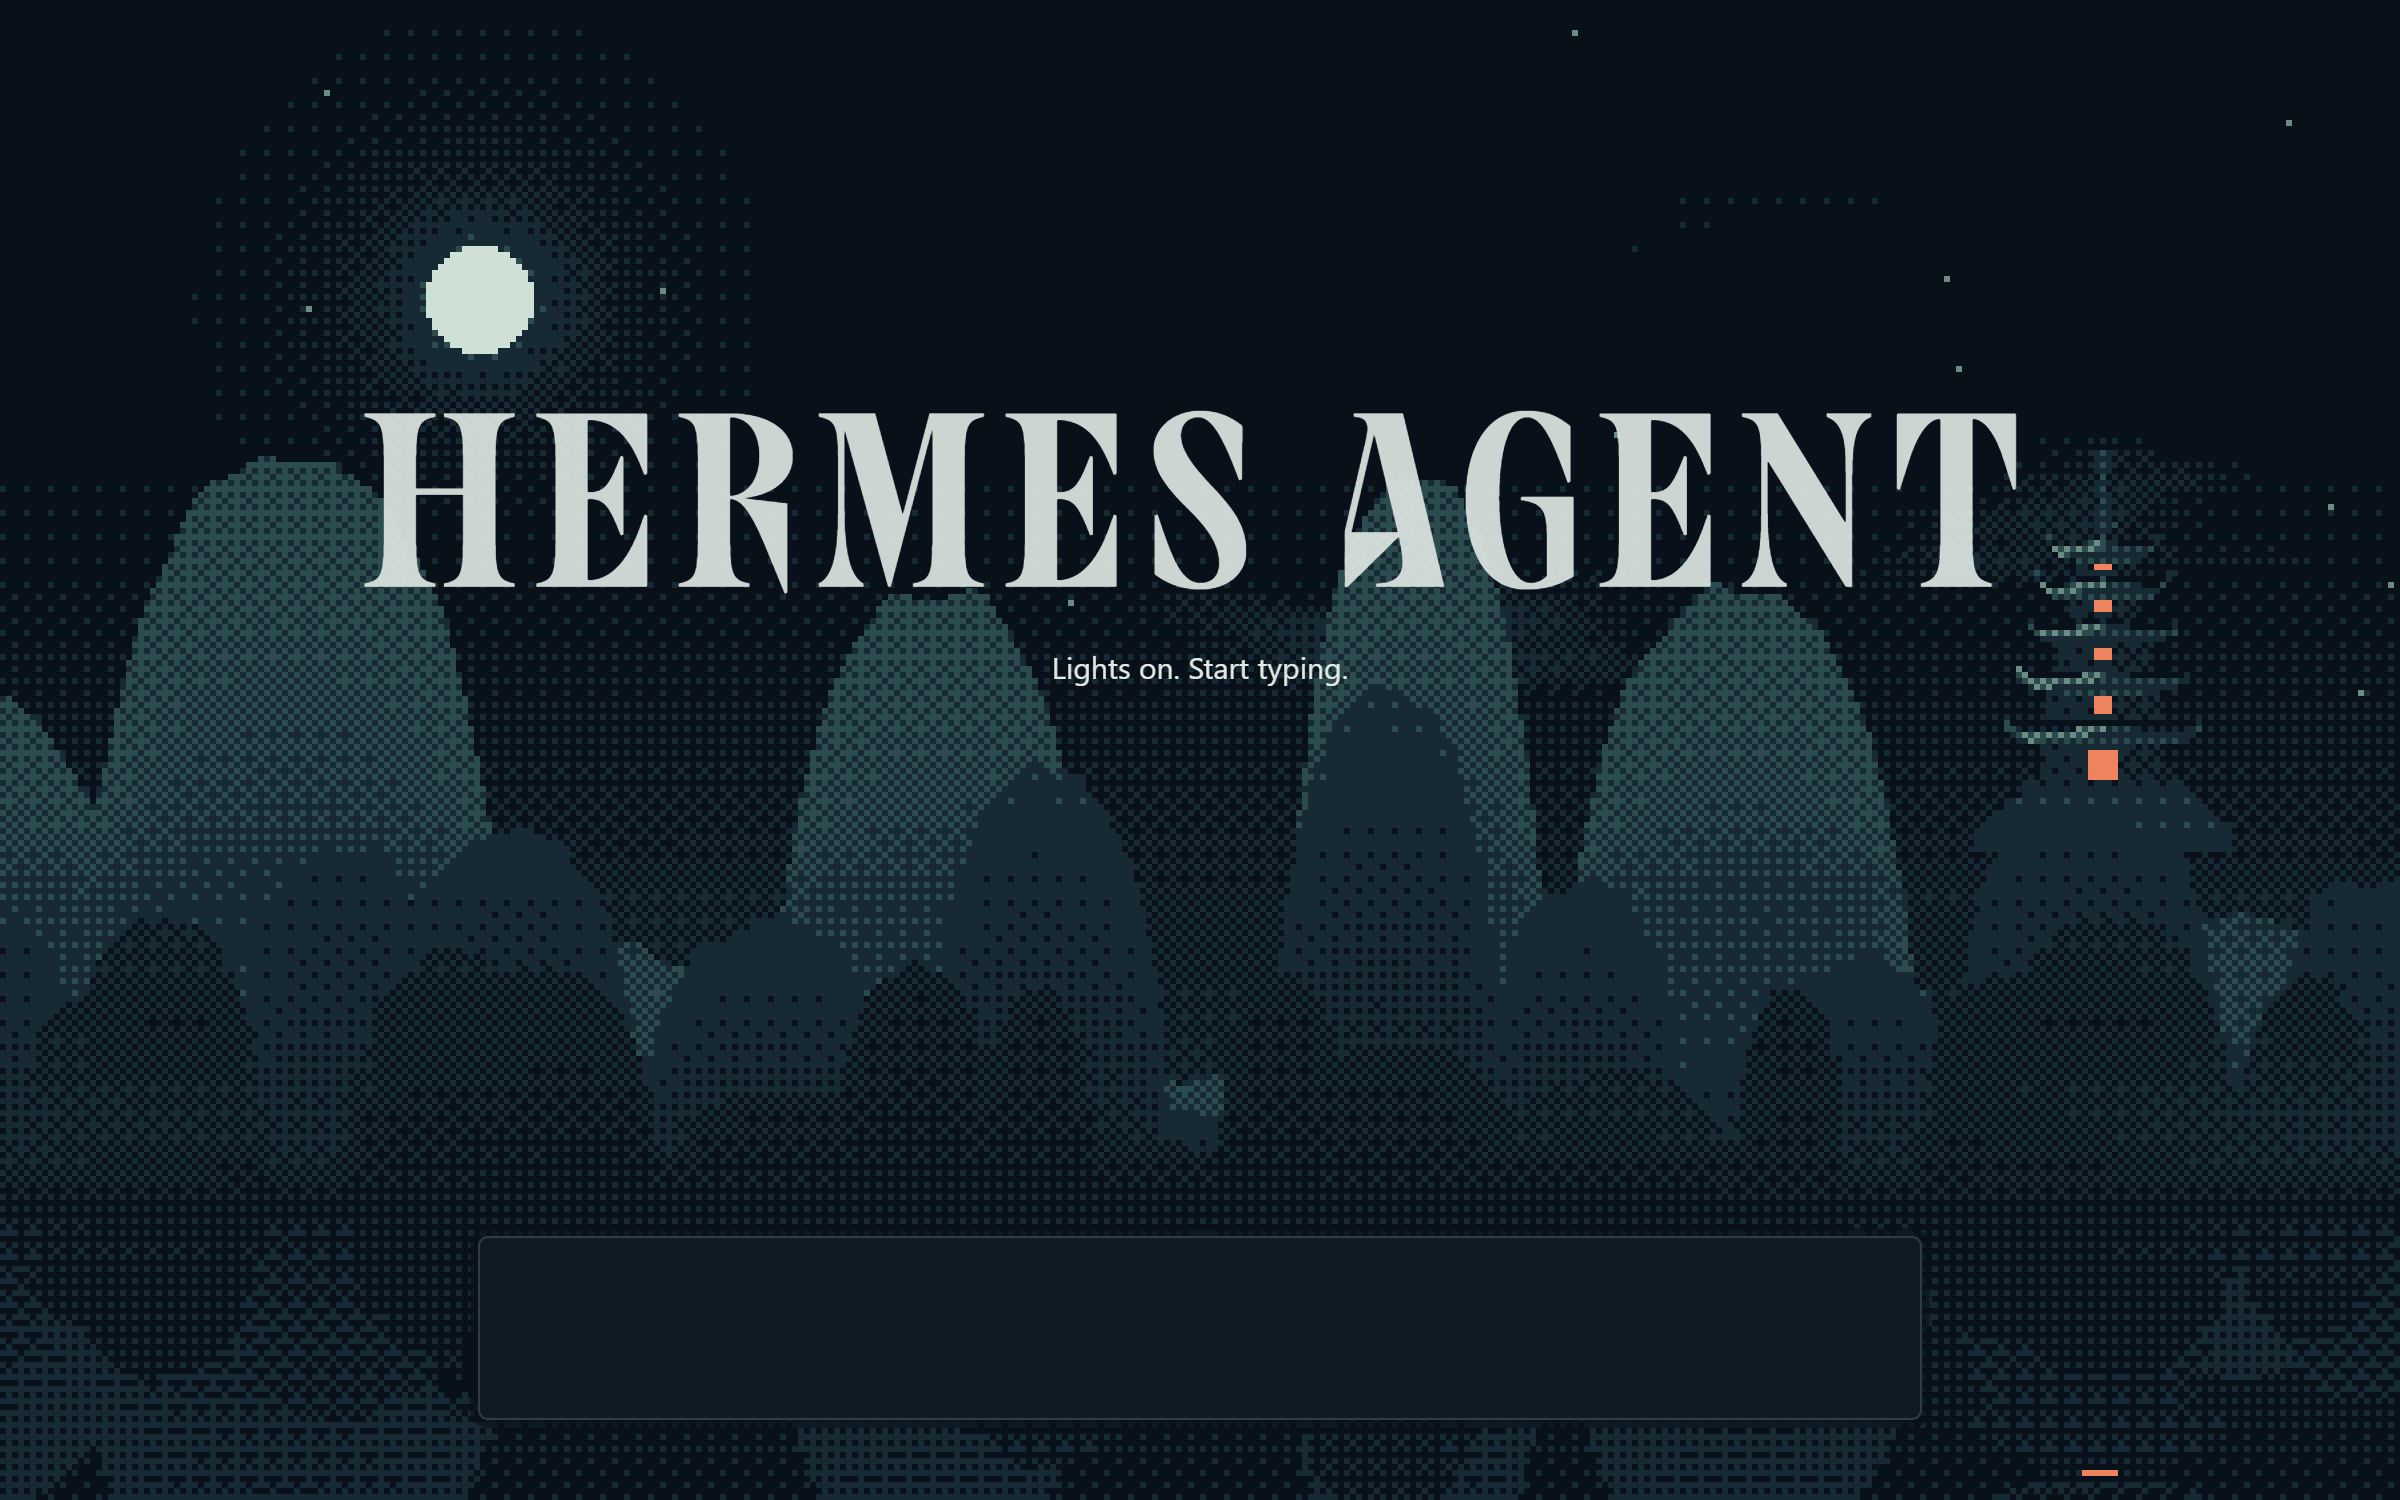
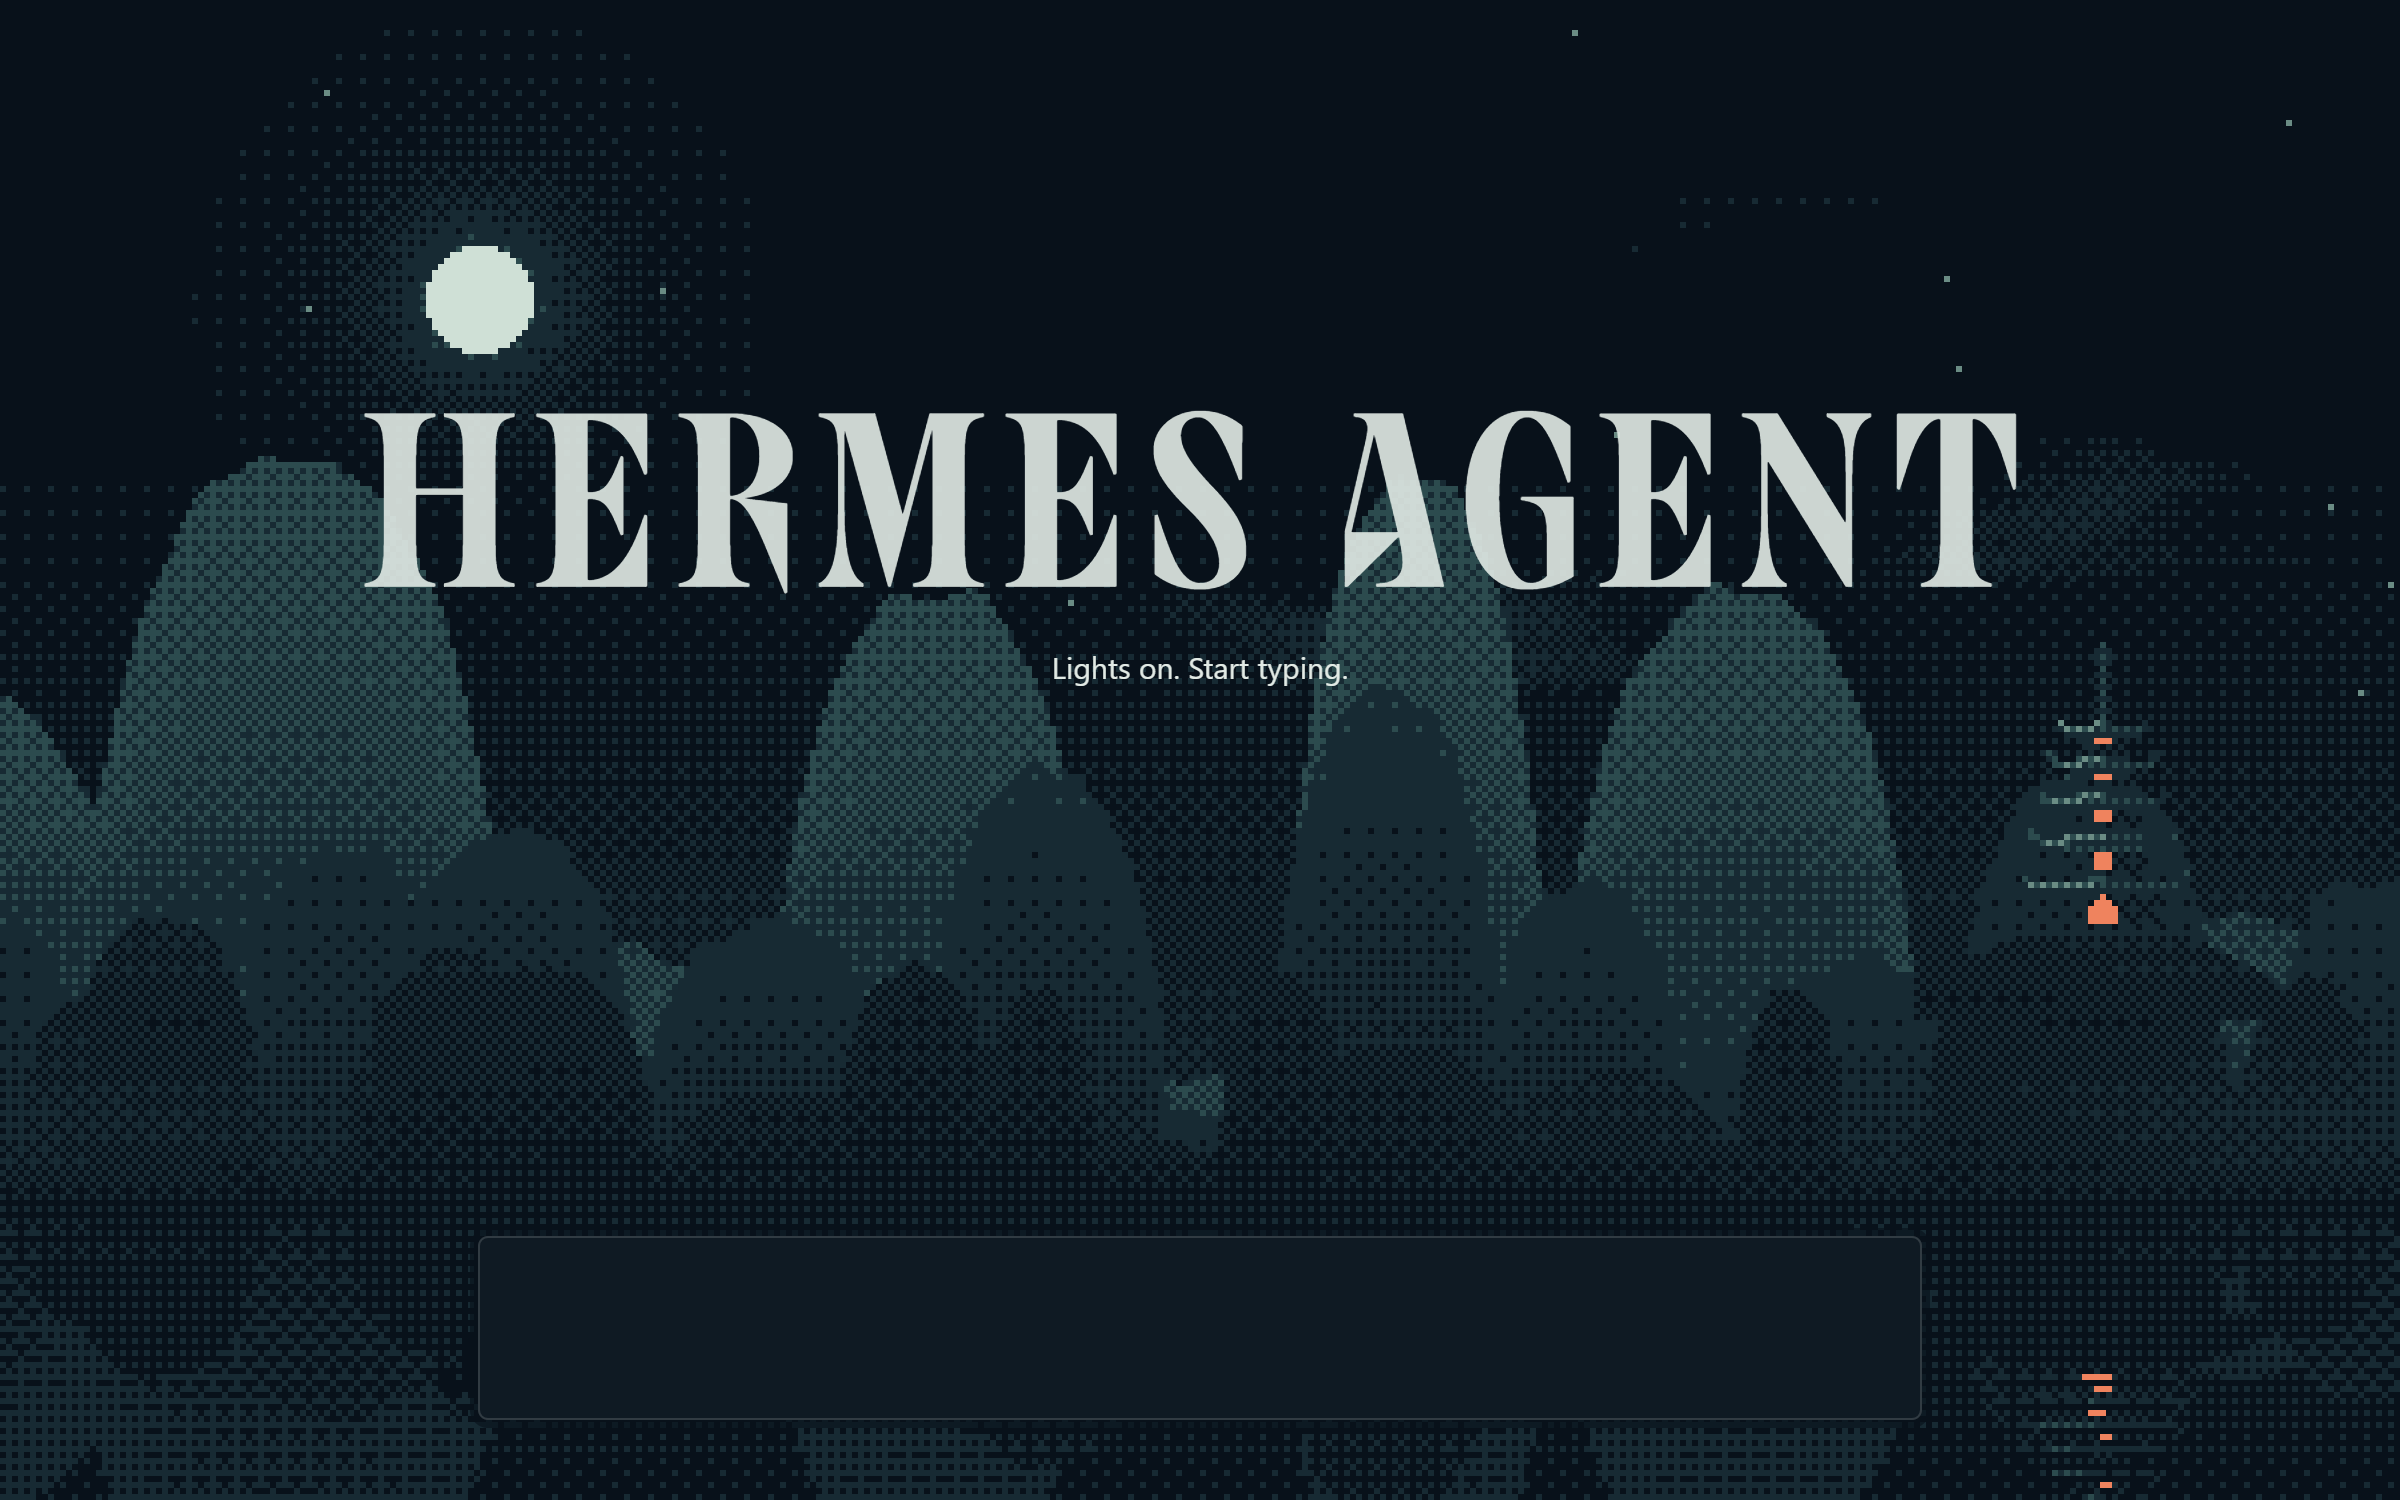
Stand the pagoda on the near range so it never floats
On the pale middle range its crest faded to paper behind text (and under mist) while the dark pagoda stayed, so it looked like it was flying. It now stands on the highest crest of the near range, on a rock shaded like that range, in front of the mist. test/pagoda_crops.py renders it at several moments, light and dark, empty chat and behind text.

Changed region(s): [[0.8125, 0.3373, 0.9688, 0.6747], [0.8438, 0.92, 0.9062, 1.0], [0.9062, 0.8587, 0.9375, 0.92]]

diff --git a/desktop/plugin.js b/desktop/plugin.js
@@ -426,13 +426,13 @@ float pagoda(vec2 q, out float part, out float rim) {
   part = 0.0;
   rim = 0.0;
   float ax0 = abs(q.x);
-  if (ax0 > 4.6 || q.y < -2.5 || q.y > 13.5) {
+  if (ax0 > 8.0 || q.y < -4.0 || q.y > 13.5) {
     return 0.0;
   }
   // a stone plinth, and below it the rock it is built on, widening into the hill
   if (q.y < 0.0) {
     part = q.y < -0.45 ? 5.0 : 4.0;
-    return ax0 < (q.y < -0.45 ? 2.9 + (-q.y - 0.45) * 1.4 : 2.75) ? 1.0 : 0.0;
+    return ax0 < (q.y < -0.45 ? 3.0 + pow(-q.y - 0.45, 0.7) * 2.6 : 2.75) ? 1.0 : 0.0;
   }
   float y = 0.0;
   for (int i = 0; i < 5; i++) {
@@ -527,37 +527,6 @@ float scene(vec2 uv, float t, float rain, out float ground, out float acc) {
     ground = 1.0;
   }
 
-  // the pagoda stands on the middle range, on the right, in that range's own (parallax) coordinates
-  // on the highest crest of that range right of centre. The search range is in
-  // scene units (heights), not a share of the width, so resizing the window or
-  // opening a side pane never moves it to another peak.
-  float px = 0.45;
-  float crest = 0.0;
-  for (int i = 0; i < 24; i++) {
-    float cx = 0.25 + 0.45 * float(i) / 23.0;
-    float k = karst(cx * 2.8 + 23.0, 23.0, 0.5);
-    if (k > crest) {
-      crest = k;
-      px = cx;
-    }
-  }
-  float base = HORIZON + 0.36 * crest - 0.012;
-  float part;
-  float rim;
-  if (pagoda(vec2(x1 - px, p.y - base) / 0.019, part, rim) > 0.5) {
-    ground = 1.0;
-    float shade = x1 > px ? 1.0 : 0.0; // the side away from the sun and moon (right)
-    if (uNight < 0.5) {
-      // cinnabar walls (dithered darker on the shaded side), dark tiled roofs
-      tone = part == 1.0 ? (rim > 0.5 ? 0.7 : 1.0) : part == 2.0 ? 1.0 : part == 3.0 ? 0.85 : part == 4.0 ? 0.75 : part == 5.0 ? 0.55 : 0.85;
-      acc = part == 0.0 ? (shade > 0.5 ? 0.8 : 1.0) : 0.0;
-    } else {
-      // a dim shape against the night sky, moonlit roof edges and lamps in the windows
-      tone = part == 1.0 ? (rim > 0.5 && shade < 0.5 ? 0.62 : 0.32) : part == 3.0 ? 0.32 : part == 4.0 ? 0.22 : part == 5.0 ? 0.26 : (shade > 0.5 ? 0.16 : 0.22);
-      acc = part == 2.0 ? 1.0 : 0.0;
-    }
-  }
-
   float x2 = layerX(p, 1.0);
   float top2 = HORIZON + 0.2 * karst(x2 * 3.6 + 37.0, 37.0, 0.42);
   if (p.y < top2) {
@@ -567,10 +536,47 @@ float scene(vec2 uv, float t, float rain, out float ground, out float acc) {
     ground = 1.0;
   }
 
+  // the pagoda stands on the near range, on its highest crest right of centre, so it
+  // is as dark as the rock under it and never reads as floating when the scene fades.
+  // The search range is in scene units (heights), not a share of the width, so
+  // resizing the window or opening a side pane never moves it to another peak.
+  float px = 0.45;
+  float crest = 0.0;
+  for (int i = 0; i < 24; i++) {
+    float cx = 0.25 + 0.45 * float(i) / 23.0;
+    float k = karst(cx * 3.6 + 37.0, 37.0, 0.42);
+    if (k > crest) {
+      crest = k;
+      px = cx;
+    }
+  }
+  float base = HORIZON + 0.2 * crest - 0.004;
+  float part;
+  float rim;
+  float solid = 0.0; // the building stands in front of the mist that lies on the slopes
+  if (pagoda(vec2(x2 - px, p.y - base) / 0.016, part, rim) > 0.5) {
+    ground = 1.0;
+    solid = part == 5.0 ? 0.0 : 1.0;
+    float shade = x2 > px ? 1.0 : 0.0; // the side away from the sun and moon (right)
+    if (part == 5.0) {
+      // the rock it is built on, shaded like the range itself
+      tone = mix(mix(0.85, 0.12, uNight), mix(0.42, 0.06, uNight), smoothstep(base, HORIZON, p.y));
+      acc = 0.0;
+    } else if (uNight < 0.5) {
+      // cinnabar walls (dithered darker on the shaded side), dark tiled roofs
+      tone = part == 1.0 ? (rim > 0.5 ? 0.7 : 1.0) : part == 2.0 ? 1.0 : part == 3.0 ? 0.85 : part == 4.0 ? 0.6 : 0.85;
+      acc = part == 0.0 ? (shade > 0.5 ? 0.8 : 1.0) : 0.0;
+    } else {
+      // a dim shape against the night sky, moonlit roof edges and lamps in the windows
+      tone = part == 1.0 ? (rim > 0.5 && shade < 0.5 ? 0.62 : 0.32) : part == 3.0 ? 0.32 : part == 4.0 ? 0.24 : (shade > 0.5 ? 0.16 : 0.22);
+      acc = part == 2.0 ? 1.0 : 0.0;
+    }
+  }
+
   // mist: two drifting bands, at the feet of the near and middle ranges
   float fog = fbm(vec2(p.x * 1.1 - t * 0.012, p.y * 4.0 + 3.0));
   float mist = exp(-pow((p.y - HORIZON - 0.05) / 0.05, 2.0)) + 0.7 * exp(-pow((p.y - HORIZON - 0.19) / 0.045, 2.0));
-  float m = clamp(mist * smoothstep(0.32, 0.7, fog), 0.0, 1.0) * (0.75 + 0.25 * rain);
+  float m = clamp(mist * smoothstep(0.32, 0.7, fog), 0.0, 1.0) * (0.75 + 0.25 * rain) * (1.0 - 0.8 * solid);
   tone = mix(tone, mix(0.04, 0.2, uNight), m);
   acc *= 1.0 - m;
 

diff --git a/test/pagoda_crops.py b/test/pagoda_crops.py
@@ -1,0 +1,53 @@
+"""Crops of the Cangfeng pagoda at several moments, light and dark, empty chat and behind text.
+
+uv run --with playwright --with pillow python test/pagoda_crops.py out_dir
+Writes one board, pagoda-board.png: rows are moments, columns are light/dark x empty/text.
+"""
+
+import functools
+import http.server
+import io
+import pathlib
+import sys
+import threading
+
+from PIL import Image
+from playwright.sync_api import sync_playwright
+
+ROOT = pathlib.Path(__file__).resolve().parent.parent
+OUT = pathlib.Path(sys.argv[1] if len(sys.argv) > 1 else ROOT / "test" / "shots")
+OUT.mkdir(parents=True, exist_ok=True)
+W, H = 1400, 860
+BOX = (int(W / 2 + 0.6 * H - 170), int(H * 0.3), int(W / 2 + 0.6 * H + 170), int(H * 0.88))
+TIMES = [0, 30, 60, 100, 140]
+COLS = [("light", "1"), ("light", "0"), ("dark", "1"), ("dark", "0")]
+
+
+class Quiet(http.server.SimpleHTTPRequestHandler):
+    def log_message(self, format, *args):
+        pass
+
+
+server = http.server.ThreadingHTTPServer(("127.0.0.1", 0), functools.partial(Quiet, directory=str(ROOT)))
+threading.Thread(target=server.serve_forever, daemon=True).start()
+base = f"http://127.0.0.1:{server.server_port}/test/harness.html?theme=cangfeng"
+
+cw, ch = BOX[2] - BOX[0], BOX[3] - BOX[1]
+board = Image.new("RGB", (cw * len(COLS), ch * len(TIMES)), "white")
+with sync_playwright() as p:
+    browser = p.chromium.launch(
+        channel="chrome", headless=True, args=["--use-angle=swiftshader", "--enable-unsafe-swiftshader"]
+    )
+    page = browser.new_page(viewport={"width": W, "height": H})
+    for r, t in enumerate(TIMES):
+        for c, (mode, intro) in enumerate(COLS):
+            page.goto(f"{base}&mode={mode}&intro={intro}&t={t}")
+            page.wait_for_function("document.title === 'ready'", timeout=30000)
+            page.evaluate("document.querySelector('.wordmark') && (document.querySelector('.wordmark').style.visibility = 'hidden')")
+            page.wait_for_timeout(800)  # the fade behind text takes 700 ms
+            im = Image.open(io.BytesIO(page.screenshot())).convert("RGB").crop(BOX)
+            board.paste(im, (c * cw, r * ch))
+    browser.close()
+server.shutdown()
+board.save(OUT / "pagoda-board.png")
+print("saved", OUT / "pagoda-board.png")
